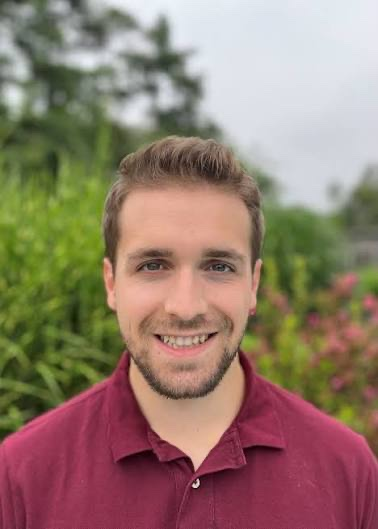
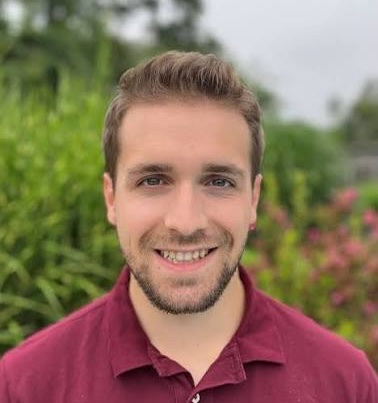
corporate: Izadi retitled Macroeconomic Lead, new headshot for Brendan
Esmaeil Izadi's card title and the opening phrase of his bio now read
"macroeconomic lead" instead of "energy-economy modelling lead"; the
rest of the bio is unchanged.

Replaces Brendan Danaher's headshot with a tighter crop (378x403) that
frames his face centrally, so it needs no per-image CSS — every avatar
now uses the same shared crop rule.

diff --git a/corporate/index.html b/corporate/index.html
@@ -258,10 +258,10 @@
             <span class="team-avatar"><img src="assets/team/dr-esmaeil-izadi.jpg" alt="Dr. Esmaeil Izadi" width="80" height="80" loading="lazy"></span>
             <span class="team-name">Dr. Esmaeil Izadi</span>
           </a>
-          <p class="team-role">Energy-Economy Modelling Lead</p>
+          <p class="team-role">Macroeconomic Lead</p>
           <details class="team-details">
             <summary>Read bio</summary>
-            <p class="team-bio">Esmaeil is the energy-economy modelling lead for Open Insights and a Research Analyst and Postdoctoral Fellow with the SESIT Group at the University of Victoria. An economist, he bridges economic theory with energy modelling and climate policy analysis. His recent work at Environment and Climate Change Canada focused on integrated assessment modelling and scenario analysis for federal energy policies. Before his PhD, he worked as a policy advisor and business development manager in the mining and offshore industries, contributing to market expansion, financial analysis and strategic planning.</p>
+            <p class="team-bio">Esmaeil is the macroeconomic lead for Open Insights and a Research Analyst and Postdoctoral Fellow with the SESIT Group at the University of Victoria. An economist, he bridges economic theory with energy modelling and climate policy analysis. His recent work at Environment and Climate Change Canada focused on integrated assessment modelling and scenario analysis for federal energy policies. Before his PhD, he worked as a policy advisor and business development manager in the mining and offshore industries, contributing to market expansion, financial analysis and strategic planning.</p>
             <p class="team-bio">His research spans political economy, the energy transition, and financial strategies at the firm and government levels. Using economic theory, applied econometrics and energy-economy modelling, he studies how institutions and market and non-market incentives shape financial outcomes, development paths and transition trajectories. His doctoral research examined how institutions form in macro-development settings, the role of network relationships in firms&rsquo; strategies and financial outcomes, and the links between climate risks and stranded assets in financial markets.</p>
             <p class="team-bio">Esmaeil received his PhD in Economics from Simon Fraser University in 2025. He also holds Master&rsquo;s degrees in Economics from the University of New Mexico and the University of Tehran, and a Bachelor&rsquo;s degree in Marine Engineering from Amirkabir University of Technology in Tehran.</p>
           </details>
